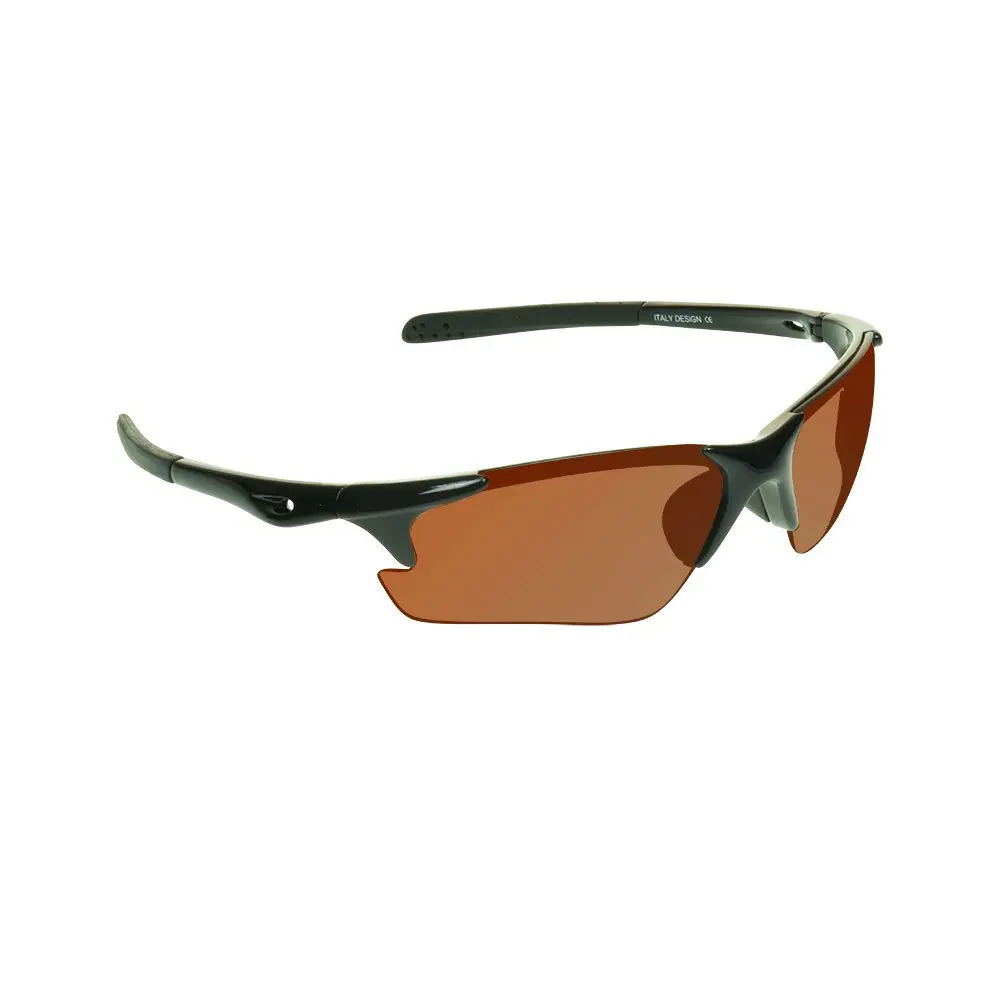
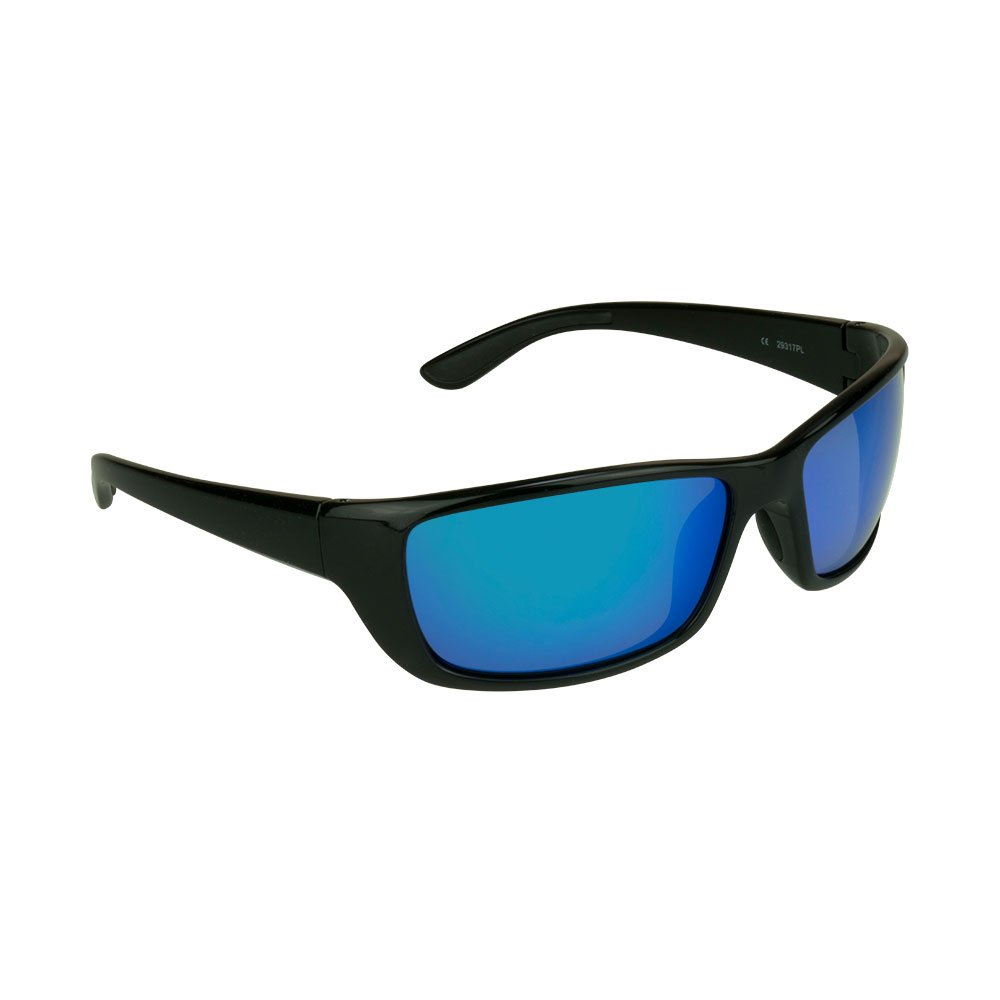
images and index fix

Changed region(s): [[0.093, 0.279, 0.93, 0.713]]

diff --git a/src/lib/brand.ts b/src/lib/brand.ts
@@ -14,15 +14,15 @@ const BRANDS = {
       body: "Athletic eyewear tuned for speed, clarity, and all-day comfort under pressure.",
     },
     categoryImages: [
-      "/prosport-sunglasses/hero.jpg",
-      "/prosport-sunglasses/hero.jpg",
-      "/prosport-sunglasses/hero.jpg",
-      "/prosport-sunglasses/hero.jpg",
-      "/prosport-sunglasses/hero.jpg",
+      "/prosport-sunglasses/cat-1.jpg",
+      "/prosport-sunglasses/cat-2.jpg",
+      "/prosport-sunglasses/cat-3.jpg",
+      "/prosport-sunglasses/cat-4.jpg",
+      "/prosport-sunglasses/cat-5.jpg",
     ],
     editorial: [
-      { body: "Built for the road ahead", image: "/prosport-sunglasses/hero.jpg" },
-      { body: "See every angle, miss nothing", image: "/prosport-sunglasses/hero.jpg" },
+      { body: "Built for the road ahead", image: "/prosport-sunglasses/edit-1.jpg" },
+      { body: "See every angle, miss nothing", image: "/prosport-sunglasses/edit-2.jpg" },
     ],
   },
   "bikershades": {
@@ -40,15 +40,15 @@ const BRANDS = {
       body: "Protective rider-first eyewear made for open roads, bright glare, and the miles ahead.",
     },
     categoryImages: [
-      "/bikershades/hero.jpg",
-      "/bikershades/hero.jpg",
-      "/bikershades/hero.jpg",
-      "/bikershades/hero.jpg",
-      "/bikershades/hero.jpg",
+      "/bikershades/cat-1.jpg",
+      "/bikershades/cat-2.jpg",
+      "/bikershades/cat-3.jpg",
+      "/bikershades/cat-4.jpg",
+      "/bikershades/cat-5.jpg",
     ],
     editorial: [
-      { body: "Wind, sun, no limits", image: "/bikershades/hero.jpg" },
-      { body: "Miles ahead, nothing missed", image: "/bikershades/hero.jpg" },
+      { body: "Wind, sun, no limits", image: "/bikershades/edit-1.jpg" },
+      { body: "Miles ahead, nothing missed", image: "/bikershades/edit-2.jpg" },
     ],
   },
   "sunglass-monster": {
@@ -66,15 +66,15 @@ const BRANDS = {
       body: "Fashion-forward sunglasses with standout attitude, easy comfort, and all-day wearability.",
     },
     categoryImages: [
-      "/sunglass-monster/hero.jpg",
-      "/sunglass-monster/hero.jpg",
-      "/sunglass-monster/hero.jpg",
-      "/sunglass-monster/hero.jpg",
-      "/sunglass-monster/hero.jpg",
+      "/sunglass-monster/cat-1.jpg",
+      "/sunglass-monster/cat-2.jpg",
+      "/sunglass-monster/cat-3.jpg",
+      "/sunglass-monster/cat-4.jpg",
+      "/sunglass-monster/cat-5.jpg",
     ],
     editorial: [
-      { body: "Colour meets confidence", image: "/sunglass-monster/hero.jpg" },
-      { body: "Frame the moment", image: "/sunglass-monster/hero.jpg" },
+      { body: "Colour meets confidence", image: "/sunglass-monster/edit-1.jpg" },
+      { body: "Frame the moment", image: "/sunglass-monster/edit-2.jpg" },
     ],
   },
 } as const;

diff --git a/src/app/(shop)/page.tsx b/src/app/(shop)/page.tsx
@@ -104,7 +104,7 @@ export default async function HomePage() {
       {/* ── Editorial split ── */}
       <section className="grid sm:grid-cols-2">
         {leaves.length > 0 && brand.editorial.map((slot, i) => {
-          const leaf = leaves[(4 + i) % leaves.length];
+          const leaf = leaves[(5 + i) % leaves.length];
           return (
             <Link key={i} href={`/category/${leaf.path}`} className={`group relative ${bgs[i]} min-h-[58vh] overflow-hidden flex items-center justify-center p-12${i === 1 ? " hidden sm:flex" : ""}`}>
               <Image